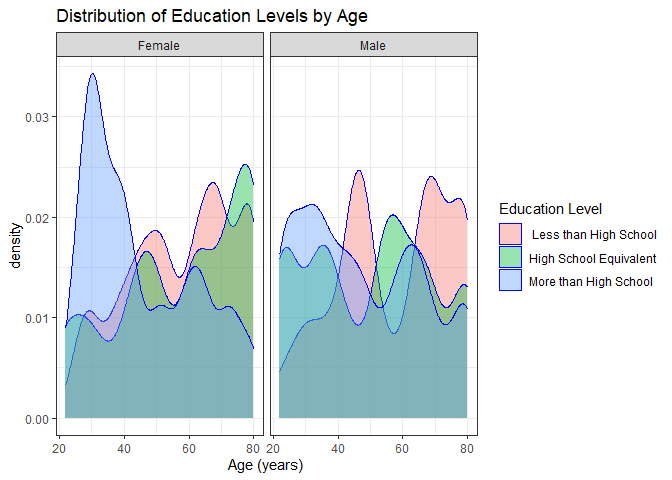
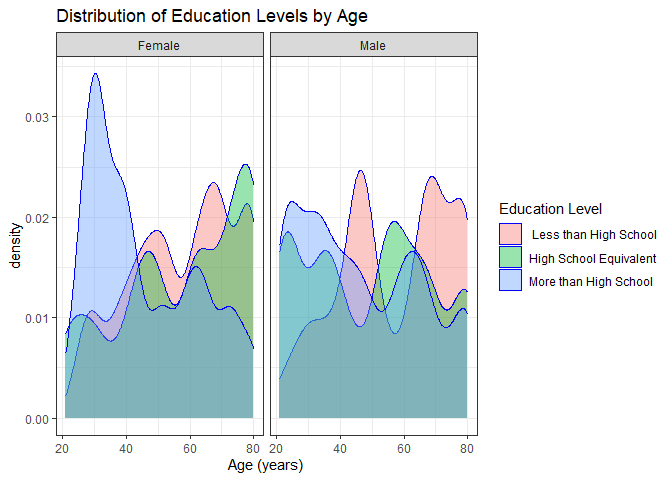
fixed question 2 graphs, added question 2 descriptions to figures/graphs

diff --git a/HW_am6592.md b/HW_am6592.md
@@ -26,14 +26,14 @@ mims_df =
   janitor::clean_names()
 
 full_accel_df = left_join(mims_df, demo_df, by = "seqn") %>% 
-  filter(age > 21, !is.na(seqn), !is.na(sex), !is.na(age), !is.na(bmi), !is.na(education)) %>% 
+  filter(age > 20, !is.na(seqn), !is.na(sex), !is.na(age), !is.na(bmi), !is.na(education)) %>% 
   pivot_longer(
     min1:min1440,
     names_to = "minute", 
     values_to = "MIMS",
     names_prefix = "min") %>%  
   mutate(
-    minute = as.factor(minute)
+    minute = as.double(minute)
   )
 ```
 
@@ -44,7 +44,7 @@ education_count =
   mutate(sex = ifelse(sex == 1, "Male", "Female")) %>% 
   mutate(education = ifelse(education == 1, "Less than High School",
                             ifelse(education == 2, "High School Equivalent", "More than High School"))) %>% 
-  group_by(sex, education)%>% 
+  group_by(sex, education) %>% 
   summarize(counts = n())%>% 
   pivot_wider(
     names_from = "education", 
@@ -62,12 +62,12 @@ knitr::kable(education_count)
 | sex    | Less than High School | High School Equivalent | More than High School |
 |:-------|----------------------:|-----------------------:|----------------------:|
 | Female |                    28 |                     23 |                    59 |
-| Male   |                    27 |                     34 |                    54 |
+| Male   |                    27 |                     35 |                    56 |
 
 ``` r
 demo_plot = 
   demo_df %>% 
-  filter(age > 21) %>%
+  filter(age > 20) %>%
   na.omit(demo_df) %>% 
   mutate(sex = ifelse(sex == 1, "Male", "Female")) %>% 
   mutate(education = ifelse(education == 1, " Less than High School",
@@ -86,14 +86,14 @@ ggplot(demo_plot, aes(x = age, fill = education)) +
 The number of males and females who have less than a high school
 equivalent education are about the same (27 and 28, respectively), as
 are the number of men and women who have more than a high school
-equivalent education (54 and 59, respectively). However, the number of
+equivalent education (56 and 59, respectively). However, the number of
 males who have a high school equivalent education far outnumber the
-number of women who have the same education level (34 and 23 ,
+number of women who have the same education level (35 and 23 ,
 respectively). In both sexes, about half the participants have more than
 a high school education. When blocking for age, those with more than a
 high school equivalent education tended to skew towards younger women
 from the ages fo 20 to 40. Those with a high school equivalent and less
-than high school valent education tended to skew towards older women
+than high school equivalent education tended to skew towards older women
 (aged 60+) but there was local maxima for both these education levels in
 middle aged women (40-60 years old), but not as pronounced compared to
 in older women. In men, those with more than a high school equivalent
@@ -118,10 +118,10 @@ activity_plot =
     ## using the `.groups` argument.
 
 ``` r
-ggplot(activity_plot, aes(x = age, y = total_activity, color = education)) +
+ggplot(activity_plot, aes(x = age, y = total_activity, color = sex)) +
   geom_point(alpha = .5) +
   geom_smooth(se = FALSE) +
-  facet_grid(~sex) +
+  facet_grid(~education) +
   labs(title = "Total Daily Activity Levels vs. Age",
        x = "Age (years)", y = "Total Daily Activity (*MIMS)",
        color = "Education Level") + 
@@ -132,22 +132,58 @@ ggplot(activity_plot, aes(x = age, y = total_activity, color = education)) +
 
 <img src="HW_am6592_files/figure-gfm/unnamed-chunk-4-1.png" style="display: block; margin: auto;" />
 
+As age increases, males and females of all education levels see a
+decrease in activity overall. For those with less than a HS education,
+younger females (\<40 years of age) tended to be more active, after 40
+years old, males tended to be more active. For those with a HS
+equivalent education and more than HS education, females tended to be
+more active compared to men. For adults \<~50 years old, those with more
+than a HS education tended to be less active, in both males and females.
+After this point, however, activity seems to have evened out.
+
 ``` r
-ggplot(activity_plot, aes(x = age, y = total_activity, color = sex)) +
-  geom_point(alpha = .5) +
-  geom_smooth(se = FALSE) +
-  facet_grid(~education) +
-  labs(title = "Total Daily Activity Levels vs. Age",
-       x = "Age (years)", y = "Total Daily Activity (*MIMS)",
-       color = "Education Level") +
+timecourse_plot = 
+  full_accel_df %>%
+  mutate (hour = minute / 60) %>% 
+  group_by(sex, education, hour) %>% 
+  summarize(MIMS) %>% 
+  mutate(sex = ifelse(sex == 1, "Male", "Female")) %>% 
+  mutate(education = ifelse(education == 1, " Less than High School",
+                            ifelse(education == 2, "High School Equivalent", "More than High School")))
+```
+
+    ## Warning: Returning more (or less) than 1 row per `summarise()` group was deprecated in
+    ## dplyr 1.1.0.
+    ## ℹ Please use `reframe()` instead.
+    ## ℹ When switching from `summarise()` to `reframe()`, remember that `reframe()`
+    ##   always returns an ungrouped data frame and adjust accordingly.
+    ## Call `lifecycle::last_lifecycle_warnings()` to see where this warning was
+    ## generated.
+
+    ## `summarise()` has grouped output by 'sex', 'education', 'hour'. You can
+    ## override using the `.groups` argument.
+
+``` r
+ggplot(timecourse_plot, aes(x = hour, y = MIMS, color = sex)) +
+  geom_point(alpha = 0.01) +
+  geom_smooth() +
+  facet_grid(~education) + 
+  labs(title = "Activity Levels vs. Hour",
+       x = "Hour", y = "Activity (*MIMS)",
+       color = "Sex") +
   theme_bw()
 ```
 
-    ## `geom_smooth()` using method = 'loess' and formula = 'y ~ x'
+    ## `geom_smooth()` using method = 'gam' and formula = 'y ~ s(x, bs = "cs")'
 
 <img src="HW_am6592_files/figure-gfm/unnamed-chunk-5-1.png" style="display: block; margin: auto;" />
 
-## Problem 3
+Males and females tended to show similar trends, with activity
+decreasing from between hour 0 and hour 5 (most likely corressponding to
+sleeping hours for most participants), increasing after hour 5 until
+plateauing at a maximum at around hours 10-20. After hour 20, acitivty
+starts to decrease again. In all three education levels, women have
+slightly higher activity at most hours. \## Problem 3
 
 ``` r
 jan2020_df = 
